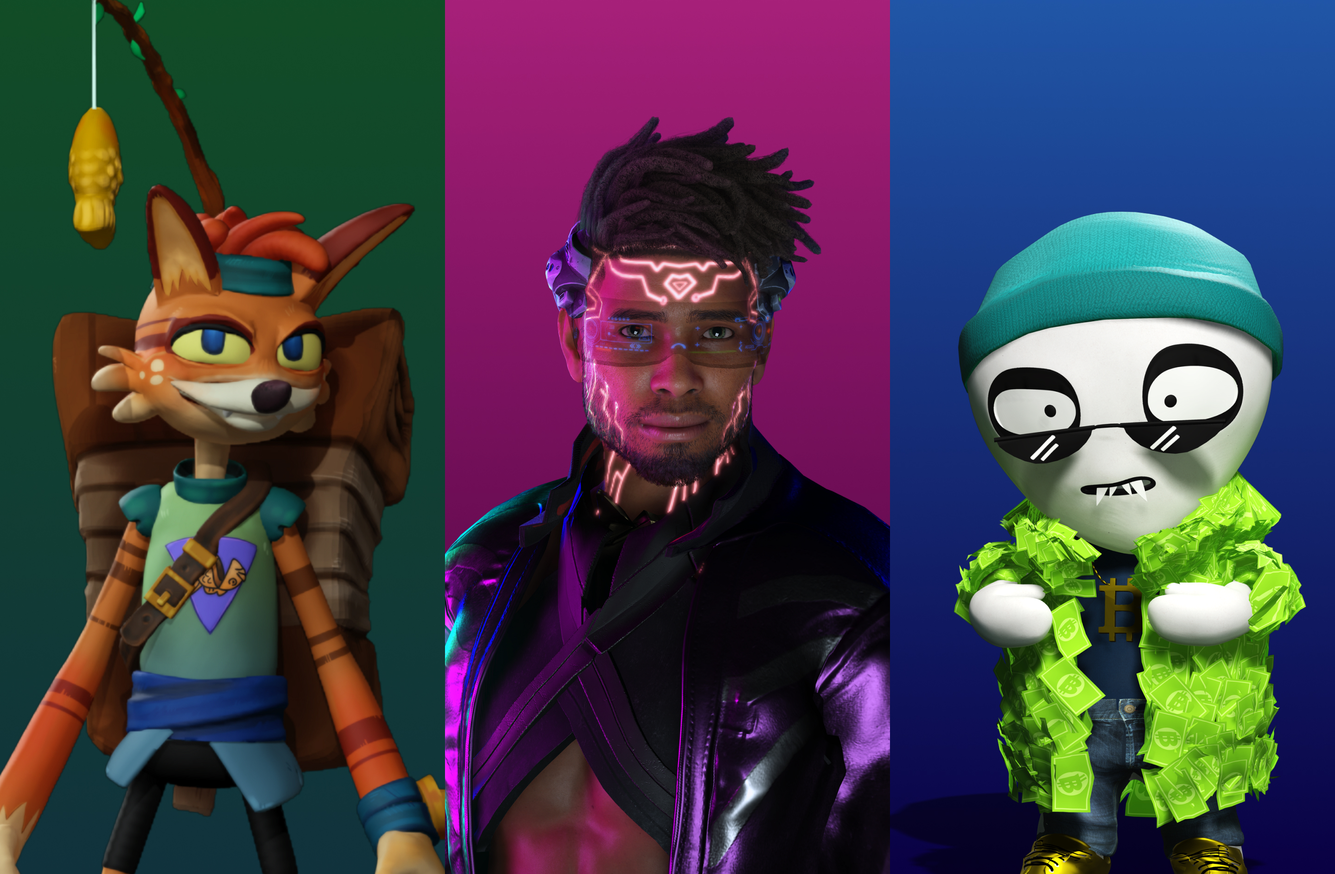
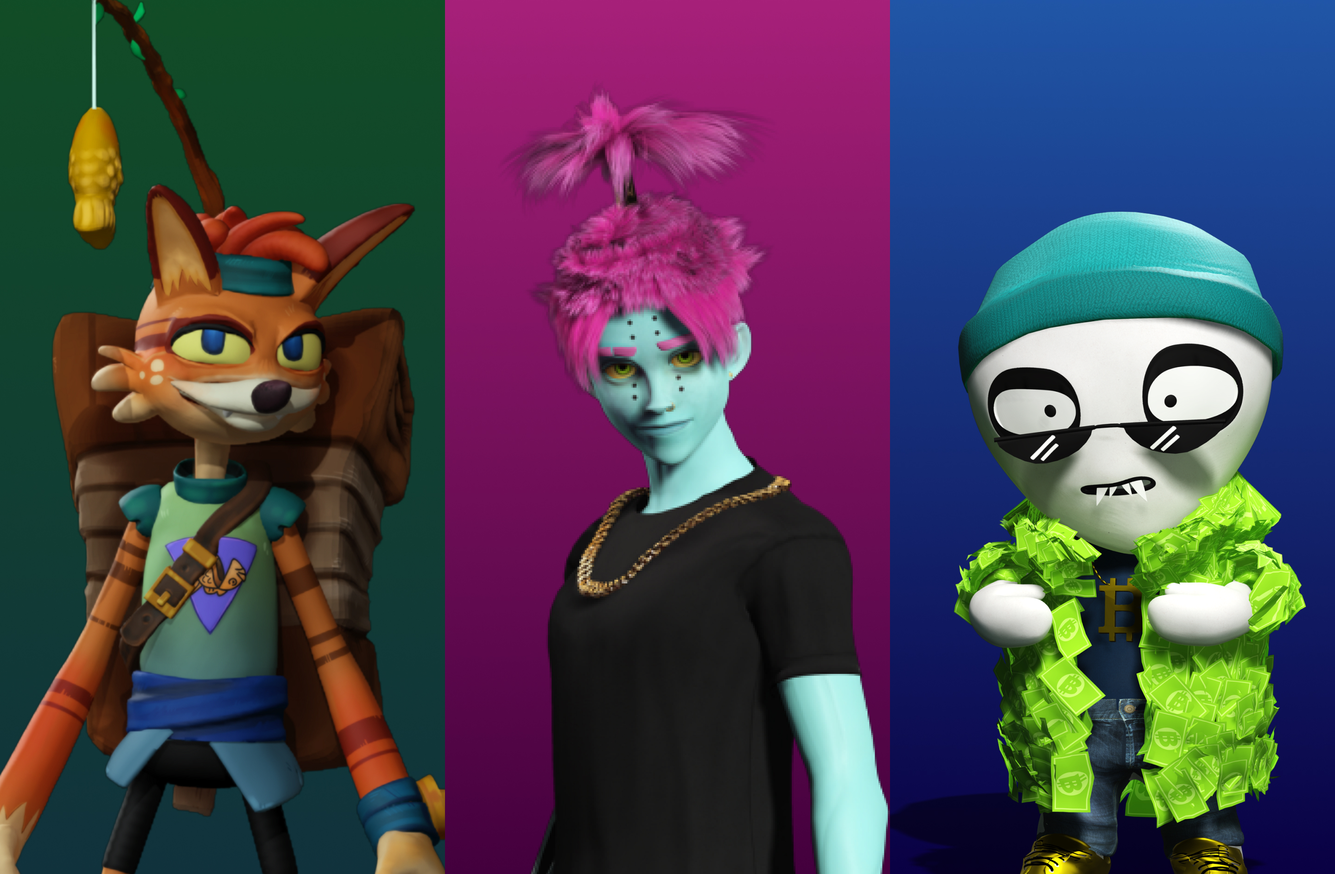
Adrian/update based on feedback (#36)
* update discord invite link

* remove overline in partner with us section

* update hero image

Changed region(s): [[0.3125, 0.0923, 0.6875, 1.0]]

diff --git a/src/components/pages/index/BusinessSection.tsx b/src/components/pages/index/BusinessSection.tsx
@@ -4,7 +4,6 @@ import React from 'react'
 
 import {
   H2,
-  Overline,
   SectionContainer,
   SectionContentWrapper,
   SectionCtaButton,
@@ -21,12 +20,6 @@ const MainContentWrapper = styled(SectionContentWrapper)`
 `
 
 const MainTextWrapper = styled(SectionTextWrapper)`
-  margin-top: ${({ theme }) => theme.spacing(5)};
-
-  ${({ theme }) => theme.breakpoints.up('sm')} {
-    margin-top: ${({ theme }) => theme.spacing(9)};
-  }
-
   ${({ theme }) => theme.breakpoints.up('md')} {
     width: 800px;
   }
@@ -92,14 +85,7 @@ interface Props {
   }[]
 }
 
-export function BusinessSection({
-  overline,
-  title,
-  tagline,
-  ctaTitle,
-  ctaLink,
-  blocks,
-}: Props) {
+export function BusinessSection({ title, tagline, ctaTitle, ctaLink, blocks }: Props) {
   function renderGridItems() {
     return blocks.map((block, index) => (
       <BottomGirdItem key={index}>
@@ -124,7 +110,6 @@ export function BusinessSection({
           }}
         />
         <MainContentWrapper>
-          <Overline>{overline}</Overline>
           <MainTextWrapper>
             <H2>{title}</H2>
             <Tagline>{tagline}</Tagline>
